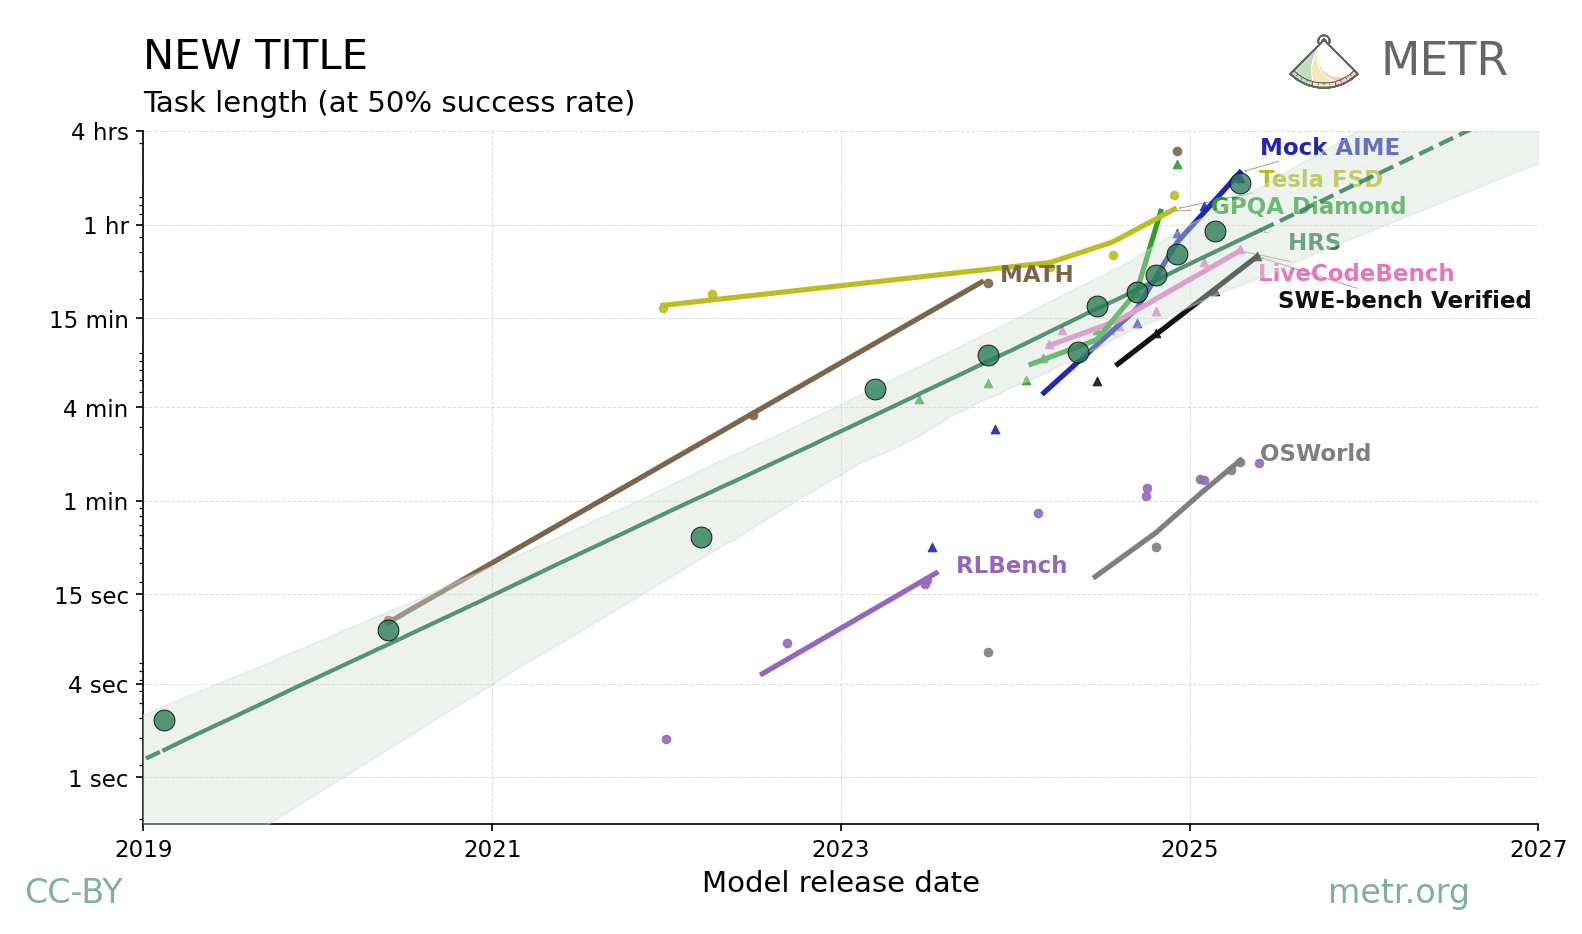
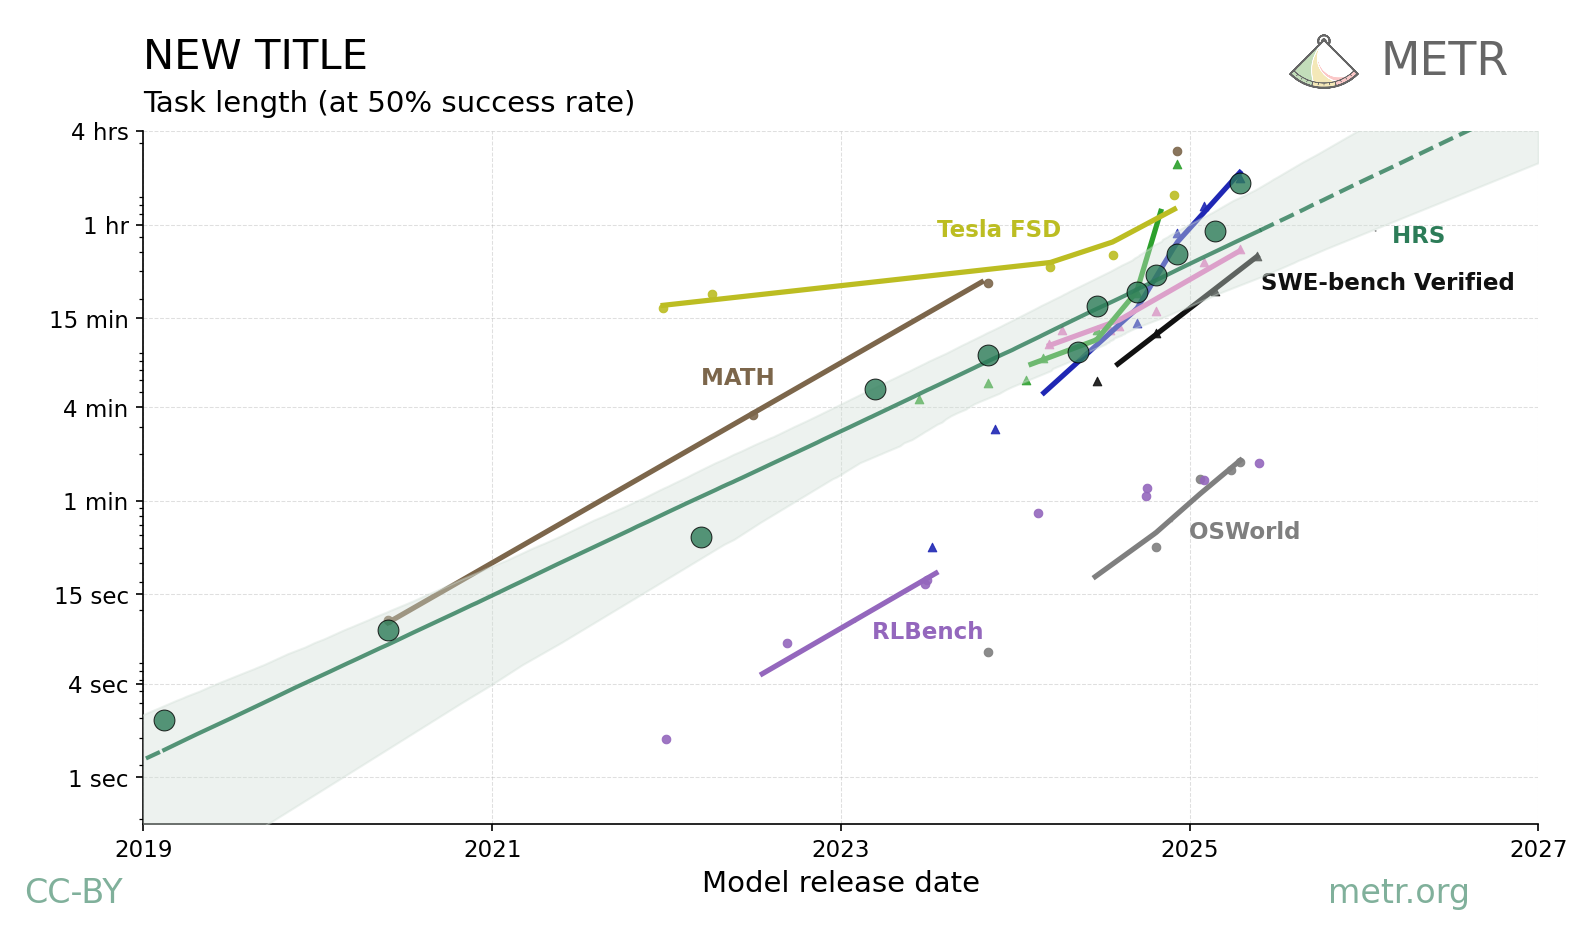
nicer label placement

diff --git a/combined.py b/combined.py
@@ -330,6 +330,10 @@ def add_bootstrap_confidence_region(
                 # Add HRS label at the end of the solid portion
                 hrs_label_x = time_points[mask_solid][-1]
                 hrs_label_y = median_predictions[mask_solid][-1]
+                
+                # Manual x-axis adjustment for HRS label
+                hrs_label_x += pd.Timedelta(days=240)  
+                
                 hrs_text = ax.text(hrs_label_x, hrs_label_y, "  HRS", 
                                  color="#2c7c58", fontsize=11, 
                                  va='center', ha='left',
@@ -727,22 +731,43 @@ def plot_combined(df, output_file,
                 ax.plot(x_line_date[mask_below], y_line[mask_below], color=color, alpha=0.3, 
                        linestyle=densely_dotted, linewidth=2)
             
-            # Add label at the end of the line
-            # Find the rightmost point of the line that's within the plot bounds
+            # Add label at the midpoint of the line
+            # Find the middle point of the line that's within the plot bounds
             valid_mask = mask_within | (mask_above if params.show_dotted_lines else np.zeros_like(mask_above, dtype=bool))
             if np.any(valid_mask):
-                # Get the last valid point
-                last_idx = np.where(valid_mask)[0][-1]
-                label_x = x_line_date[last_idx]
-                label_y = y_line[last_idx]
+                valid_indices = np.where(valid_mask)[0]
+                mid_idx = valid_indices[len(valid_indices) // 2]
+                label_x = x_line_date[mid_idx]
+                label_y = y_line[mid_idx]
                 
                 # Create text label with benchmark name
                 label_text = benchmark_aliases[bench]
-                text = ax.text(label_x, label_y, f"  {label_text}", 
-                              color=color, fontsize=11, 
-                              va='center', ha='left',
-                              weight='bold')
-                line_end_labels.append(text)
+                
+                if bench in ['mock_aime', 'livecodebench_2411_2505', 'gpqa_diamond']:
+                    continue  
+                
+                if bench in ['hendrycks_math', 'tesla_fsd', 'swe_bench_verified']:
+                    # Manual positioning for these specific benchmarks
+                    if bench == 'hendrycks_math':
+                        label_y *= 3
+                    elif bench == 'tesla_fsd':
+                        label_y *= 2
+                    elif bench == 'swe_bench_verified':
+                        label_y *= 1.5  
+                        label_x += pd.Timedelta(days=120)  
+                    
+                    # Create text but don't add to line_end_labels (won't be adjusted by adjustText)
+                    text = ax.text(label_x, label_y, f"  {label_text}", 
+                                  color=color, fontsize=11, 
+                                  va='center', ha='left',
+                                  weight='bold')
+                else:
+                    # Normal label handling - will be adjusted by adjustText
+                    text = ax.text(label_x, label_y, f"  {label_text}", 
+                                  color=color, fontsize=11, 
+                                  va='center', ha='left',
+                                  weight='bold')
+                    line_end_labels.append(text)
             
             # Add text labels for first and last frontier points if requested
             if params.show_model_names and not frontier_data.empty and params.show_points_level >= ShowPointsLevel.FIRST_AND_LAST:
